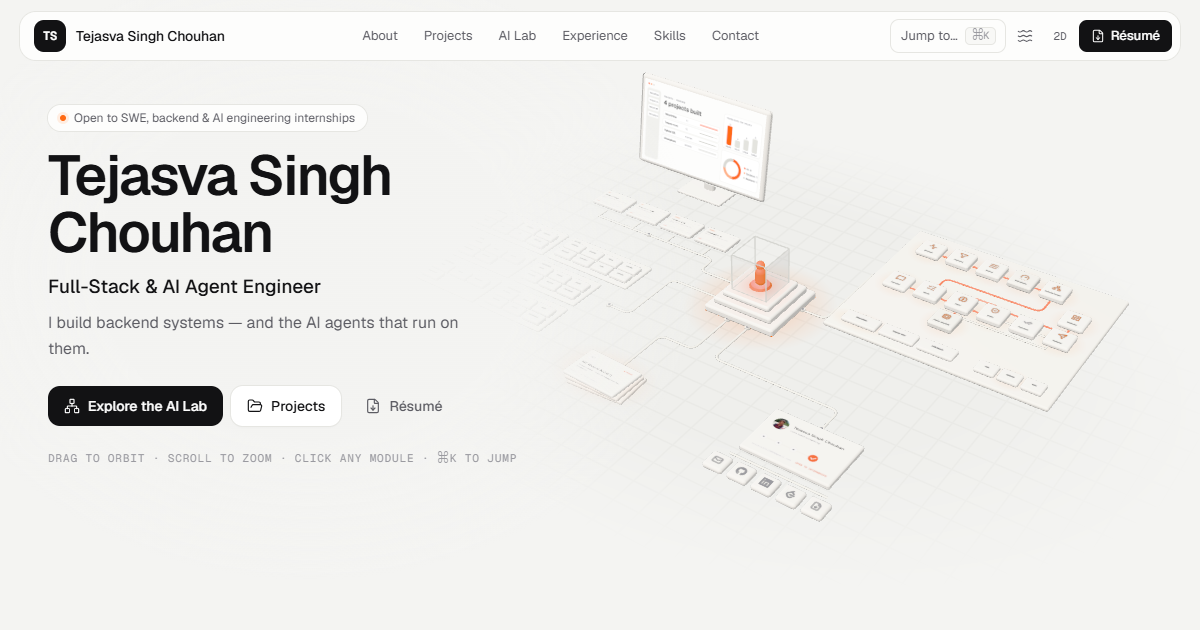
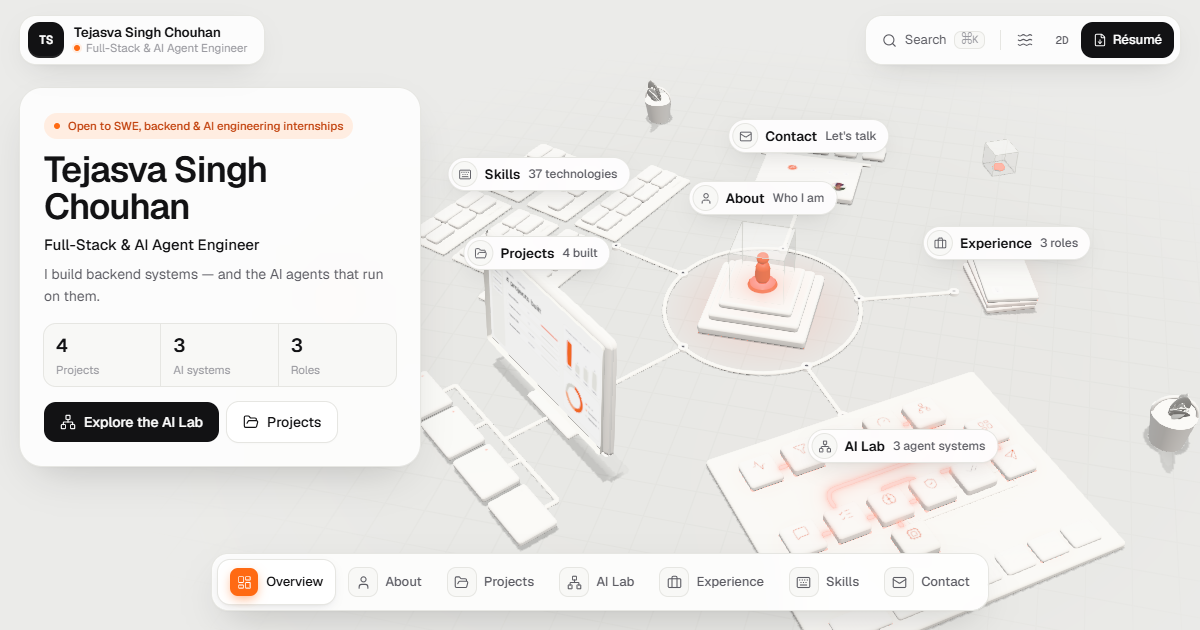
Prepare for deployment
- .gitignore: raw intake/ uploads, logs, editor/tool folders, local env files
  (with .env.example kept), deploy-tool folders
- Site URL falls back to Vercel's production URL when NEXT_PUBLIC_SITE_URL is unset
- Remove unused create-next-app SVGs; name/version/engines and scripts in package.json
- Refresh Open Graph / Twitter image from the current design
- README: free deployment steps (Vercel, Netlify, Cloudflare Pages)

diff --git a/src/data/profile.ts b/src/data/profile.ts
@@ -40,4 +40,11 @@ export const education = {
   ],
 } as const;
 
-export const siteUrl = process.env.NEXT_PUBLIC_SITE_URL ?? "http://localhost:3000";
+/**
+ * Public site URL. Set NEXT_PUBLIC_SITE_URL for a custom domain; on Vercel the production
+ * deployment URL is picked up automatically at build time.
+ */
+export const siteUrl = (
+  process.env.NEXT_PUBLIC_SITE_URL ||
+  (process.env.VERCEL_PROJECT_PRODUCTION_URL ? `https://${process.env.VERCEL_PROJECT_PRODUCTION_URL}` : "http://localhost:3000")
+).replace(/\/$/, "");

diff --git a/README.md b/README.md
@@ -10,7 +10,22 @@ npm run dev        # http://localhost:3000
 npm run build && npm start
 ```
 
-Set `NEXT_PUBLIC_SITE_URL` (e.g. `https://your-domain.dev`) in your hosting environment so canonical URLs, the sitemap and social share images point to the real domain.
+Requires Node.js 20.9 or newer.
+
+## Deploy (free)
+
+Every route is pre-rendered static HTML, with no server code, database or secrets, so it runs on any free static host.
+
+**Vercel (recommended)**
+1. Push this repo to GitHub. Vercel deploys the **default branch** (`master`) to production.
+2. On [vercel.com](https://vercel.com), sign in with GitHub and click **Add New → Project → Import** this repo. Keep the defaults (framework *Next.js*, build `next build`).
+3. Optional: in *Settings → Environment Variables*, set `NEXT_PUBLIC_SITE_URL` to your custom domain. Without it, the production `*.vercel.app` URL is used automatically for canonical URLs, the sitemap and social cards.
+
+Every push to `master` redeploys. Pushes to other branches get preview URLs.
+
+**Netlify / Cloudflare Pages** also work. Use the Next.js preset; the build command is `npm run build`.
+
+See `.env.example` for the only environment variable.
 
 ## Updating content
 
